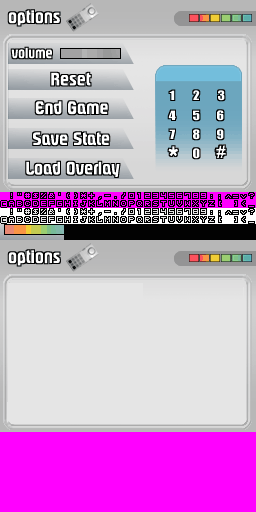
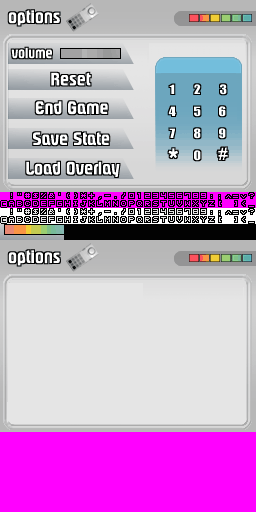
Slight more forgiving keypad entry hotspots

Changed region(s): [[0.5938, 0.0938, 0.9688, 0.3125]]

diff --git a/arm9/source/colecoDS.c b/arm9/source/colecoDS.c
@@ -37,7 +37,7 @@ u8 pColecoMem[0x10000] ALIGN(32) = {0};             // Coleco Memory
 
 /*******************************************************************************/
 volatile u16 vusCptVBL;                   // Video Management
-
+extern u8 bFullSpeed;
 typedef enum {
   EMUARM7_INIT_SND = 0x123C,
   EMUARM7_STOP_SND = 0x123D,
@@ -143,7 +143,7 @@ u16 timingFrames=0;
 //*****************************************************************************
 // Boucle principale d'execution
 //*****************************************************************************
-void colecoDS_main (void) {
+ITCM_CODE void colecoDS_main (void) {
   u32 keys_pressed;
   u16 iTx, iTy,iBcl;
   u32 ucUN, ucDEUX, ResetNow = 0, SaveNow = 0, SoundNow = 0;
@@ -186,9 +186,12 @@ void colecoDS_main (void) {
             timingFrames = 0;
         }
 
+        
         // Time 1 frame... 546 ticks of Timer0
         while(TIMER0_DATA < (546*(timingFrames+1)))
-            ;
+        {
+            if (bFullSpeed) break;
+        }
 
       // gere touches
       ucUN = 0;
@@ -279,21 +282,21 @@ void colecoDS_main (void) {
           SaveNow = 0;
   
         // Test KEYPAD
-        ucUN = ( ((iTx>=162) && (iTy>=83) && (iTx<=193) && (iTy<=99)) ? 0x0E: 0x00);
-        ucUN = ( ((iTx>=186) && (iTy>=83) && (iTx<=206) && (iTy<=99)) ? 0x0D: ucUN);
-        ucUN = ( ((iTx>=210) && (iTy>=83) && (iTx<=230) && (iTy<=99)) ? 0x0C: ucUN);
+        ucUN = ( ((iTx>=160) && (iTy>=80) && (iTx<=183) && (iTy<=100)) ? 0x0E: 0x00);
+        ucUN = ( ((iTx>=183) && (iTy>=80) && (iTx<=210) && (iTy<=100)) ? 0x0D: ucUN);
+        ucUN = ( ((iTx>=210) && (iTy>=80) && (iTx<=234) && (iTy<=100)) ? 0x0C: ucUN);
         
-        ucUN = ( ((iTx>=162) && (iTy>=102) && (iTx<=182) && (iTy<=119)) ? 0x0B: ucUN);
-        ucUN = ( ((iTx>=186) && (iTy>=102) && (iTx<=206) && (iTy<=119)) ? 0x0A: ucUN);
-        ucUN = ( ((iTx>=210) && (iTy>=102) && (iTx<=230) && (iTy<=119)) ? 0x09: ucUN);
+        ucUN = ( ((iTx>=160) && (iTy>=101) && (iTx<=183) && (iTy<=122)) ? 0x0B: ucUN);
+        ucUN = ( ((iTx>=183) && (iTy>=101) && (iTx<=210) && (iTy<=122)) ? 0x0A: ucUN);
+        ucUN = ( ((iTx>=210) && (iTy>=101) && (iTx<=234) && (iTy<=122)) ? 0x09: ucUN);
         
-        ucUN = ( ((iTx>=162) && (iTy>=121) && (iTx<=182) && (iTy<=138)) ? 0x08: ucUN);
-        ucUN = ( ((iTx>=186) && (iTy>=121) && (iTx<=206) && (iTy<=138)) ? 0x07: ucUN);
-        ucUN = ( ((iTx>=210) && (iTy>=121) && (iTx<=230) && (iTy<=138)) ? 0x06: ucUN);
+        ucUN = ( ((iTx>=160) && (iTy>=123) && (iTx<=183) && (iTy<=143)) ? 0x08: ucUN);
+        ucUN = ( ((iTx>=183) && (iTy>=123) && (iTx<=210) && (iTy<=143)) ? 0x07: ucUN);
+        ucUN = ( ((iTx>=210) && (iTy>=123) && (iTx<=234) && (iTy<=143)) ? 0x06: ucUN);
         
-        ucUN = ( ((iTx>=162) && (iTy>=140) && (iTx<=182) && (iTy<=156)) ? 0x04: ucUN);
-        ucUN = ( ((iTx>=186) && (iTy>=140) && (iTx<=206) && (iTy<=156)) ? 0x0F: ucUN);
-        ucUN = ( ((iTx>=210) && (iTy>=140) && (iTx<=230) && (iTy<=156)) ? 0x05: ucUN);
+        ucUN = ( ((iTx>=160) && (iTy>=144) && (iTx<=183) && (iTy<=164)) ? 0x04: ucUN);
+        ucUN = ( ((iTx>=183) && (iTy>=144) && (iTx<=210) && (iTy<=164)) ? 0x0F: ucUN);
+        ucUN = ( ((iTx>=210) && (iTy>=144) && (iTx<=234) && (iTy<=164)) ? 0x05: ucUN);
       } // SCR_TOUCH
       else {
         ResetNow=SaveNow=SoundNow = 0;

diff --git a/arm9/source/colecogeneric.c b/arm9/source/colecogeneric.c
@@ -313,6 +313,7 @@ void colecoDSFindFiles(void) {
   qsort (gpFic, uNbRoms, sizeof (FICcoleco), colecoFilescmp);
 }
 
+u8 bFullSpeed = false;
 
 //*****************************************************************************
 // charge une rom
@@ -466,10 +467,14 @@ u8 colecoDSLoadFile(void) {
       while (keysCurrent() & KEY_B);
     }
 
-    if (keysCurrent() & KEY_A) {
-      if (gpFic[ucGameAct].uType != DIRECT) 
+    if (keysCurrent() & (KEY_X | KEY_A)) {
+      if (gpFic[ucGameAct].uType != DIRECT)
+      {
+        if (keysCurrent() & KEY_X) bFullSpeed = true; else bFullSpeed = false;
         bOK = 1;
-      else {
+      }
+      else 
+      {
         chdir(gpFic[ucGameAct].szName);
         dmaFillWords(dmaVal | (dmaVal<<16),(void*) bgGetMapPtr(bg1b)+5*32*2,32*19*2);
         colecoDSFindFiles();
@@ -480,12 +485,13 @@ u8 colecoDSLoadFile(void) {
           ucGGSel=uNbRoms-uNbRPage;
           ucSelect=ucGameAct-uNbRoms+uNbRPage;
         }
-        else {
+        else 
+        {
           ucGGSel=ucGameAct;
           ucSelect=0;
         }
         affListGames(ucGGSel,ucSelect);
-        while (keysCurrent() & KEY_A);
+        while (keysCurrent() & (KEY_A | KEY_X));
       }
     }
     // Scroll la selection courante
@@ -910,14 +916,20 @@ void AffChaine(int iX,int iY,int iScr,char *szMessage) {
   strupr(szTexte);
   pusEcran=(u16*) (iScr != 1 ? bgGetMapPtr(bg1b) : bgGetMapPtr(bg1))+iX+(iY<<5);
   pusMap=(u16*) (iScr != 1 ? (iScr == 6 ? bgGetMapPtr(bg0b)+24*32 : (iScr == 0 ? bgGetMapPtr(bg0b)+24*32 : bgGetMapPtr(bg0b)+26*32 )) : bgGetMapPtr(bg0)+51*32 );
-  while(*pTrTxt != '\0' ) {
+    
+  while((*pTrTxt)!='\0' )
+  {
+    char ch = *pTrTxt;
+    if (ch >= 'a' && ch <= 'z') ch -= 32; // Faster than strcpy/strtoupper
     usCharac=0x0000;
-    if ((*pTrTxt) == '|')
-      usCharac=*(bgGetMapPtr(bg0b)+28*32);
-    else  if(*pTrTxt<'@')
-      usCharac=*(pusMap+(*pTrTxt)-' ');
+    if ((ch) == '|')
+      usCharac=*(pusMap);
+    else if (((ch)<' ') || ((ch)>'_'))
+      usCharac=*(pusMap);
+    else if((ch)<'@')
+      usCharac=*(pusMap+(ch)-' ');
     else
-      usCharac=*(pusMap+32+(*pTrTxt)-'@');
+      usCharac=*(pusMap+32+(ch)-'@');
     *pusEcran++=usCharac;
     pTrTxt++;
   }

diff --git a/arm9/source/colecomngt.c b/arm9/source/colecomngt.c
@@ -505,13 +505,12 @@ void cpu_writeport16(register unsigned short Port,register unsigned char Value) 
 /** Z80 emulation calls this function periodically to check **/
 /** if the system hardware requires any interrupts.         **/
 /*************************************************************/
-u32 DrCYCLE=TMS9928_LINE;
 ITCM_CODE u32 LoopZ80() 
 {
   char szChai[10];
   
   cpuirequest=0;
-  DrZ80_execute(DrCYCLE);
+  DrZ80_execute(TMS9918_LINE);
 
   // Refresh VDP 
   if(Loop9918()) cpuirequest=Z80_NMI_INT;
@@ -529,7 +528,11 @@ ITCM_CODE u32 LoopZ80()
   static u16 dampen=0;
   if (++dampen > 60)
   {
-    siprintf(szChai,"%02d ",emuFps); AffChaine(29,0,6,szChai);
+    szChai[0] = '0' + emuFps/100;
+    szChai[1] = '0' + (emuFps%100) / 10;
+    szChai[2] = '0' + (emuFps%100) % 10;
+    szChai[3] = 0;
+    AffChaine(29,0,6,szChai);
     dampen=0;
   }
 

diff --git a/arm9/source/cpu/tms9928a/tms9928a.h b/arm9/source/cpu/tms9928a/tms9928a.h
@@ -7,11 +7,11 @@
 
 #define TMS9918_BASE        10738635
 
-#define TMS9928_FRAMES      60
-#define TMS9928_LINES       262
-#define TMS9928_CLOCK       (TMS9918_BASE/3)
-#define TMS9928_FRAME       (TMS9918_BASE/(3*60))
-#define TMS9928_LINE        (TMS9918_BASE/(3*60*262))
+#define TMS9918_FRAMES      60
+#define TMS9918_LINES       262
+#define TMS9918_CLOCK       (TMS9918_BASE/3)
+#define TMS9918_FRAME       (TMS9918_BASE/(3*60))
+#define TMS9918_LINE        (TMS9918_BASE/(3*60*262))
 
 #define TMS9918_REG1_RAM16K 0x80 /* 1: 16kB VRAM (0=4kB)     */
 #define TMS9918_REG1_SCREEN 0x40 /* 1: Enable display        */
